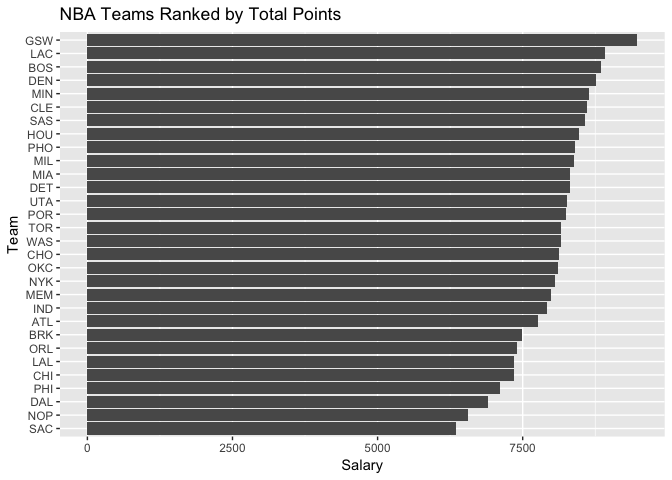
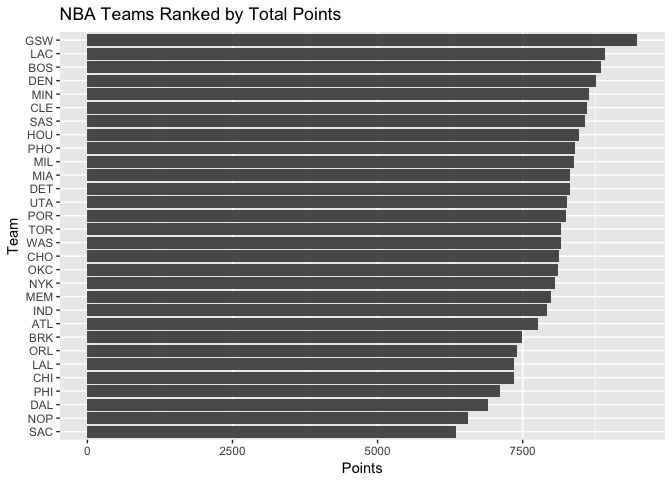
adding edited barplots

Changed region(s): [[0.0, 0.1875, 0.9688, 1.0], [0.125, 0.0938, 0.9062, 0.125]]

diff --git a/hw03/report/hw03-deborah-chang.md b/hw03/report/hw03-deborah-chang.md
@@ -74,23 +74,22 @@ names(teams) [1:15] = c("team","experience", "salary", "points3", "points2", "fr
                         "steals", "blocks", "turnovers","fouls", "efficiency")
 
 
-ggplot(teams, aes(x = reorder(teams$team, teams$salary), y = teams$salary)) + ggtitle(label = "NBA Teams Ranked by Total Salary") + geom_bar(stat = 'identity') + coord_flip()+labs(x = "Team", y = "Salary") + geom_vline(xintercept = mean(teams$salary), linetype = "solid", color = "red", size = 10)
+ggplot(teams, aes(x = reorder(teams$team, teams$salary), y = teams$salary)) + ggtitle(label = "NBA Teams Ranked by Total Salary") + geom_bar(stat = 'identity') + coord_flip()+labs(x = "Team", y = "Salary") + geom_abline(intercept = c(mean(teams$salary)), linetype = "solid", color = "red", size = 2)
 ```
 
 ![](hw03-deborah-chang_files/figure-markdown_github-ascii_identifiers/unnamed-chunk-2-1.png)
 
 ``` r
-pointsRank <- sort(teams$points, decreasing = TRUE)
 library(scales)
-ggplot(teams, aes(x = reorder(teams$team, teams$points), y = teams$points)) + ggtitle(label = "NBA Teams Ranked by Total Points") + geom_bar(stat = 'identity') + coord_flip()+labs(x = "Team", y = "Salary") + geom_vline(xintercept = mean(teams$points), linetype = "solid", color = "red", size = 10)
+plotPoints <- ggplot(teams, aes(x = reorder(teams$team, teams$points), y = teams$points)) + ggtitle(label = "NBA Teams Ranked by Total Points") + geom_bar(stat = 'identity') + coord_flip() + labs(x = "Team", y = "Points") 
+plotPoints + geom_vline(xintercept = mean(teams$points), linetype = "solid", color = "red", size = 2)
 ```
 
 ![](hw03-deborah-chang_files/figure-markdown_github-ascii_identifiers/unnamed-chunk-3-1.png)
 
 ``` r
-effRank <- sort(teams$efficiency, decreasing = TRUE)
 library(scales)
-ggplot(teams, aes(x = reorder(teams$team, teams$efficiency), y = teams$efficiency)) + ggtitle(label = "NBA Teams Ranked by Total Efficiency") + geom_bar(stat = 'identity') + coord_flip()+labs(x = "Team", y = "Salary") + geom_vline(xintercept = mean(teams$efficiency), linetype = "solid", color = "red", size = 3)
+ggplot(teams, aes(x = reorder(teams$team, teams$efficiency), y = teams$efficiency)) + ggtitle(label = "NBA Teams Ranked by Total Efficiency") + geom_bar(stat = 'identity') + coord_flip()+labs(x = "Team", y = "Efficiency") + geom_abline(intercept = c(mean(teams$efficiency)), linetype = "solid", color = "red", size = 3)
 ```
 
 ![](hw03-deborah-chang_files/figure-markdown_github-ascii_identifiers/unnamed-chunk-4-1.png)
